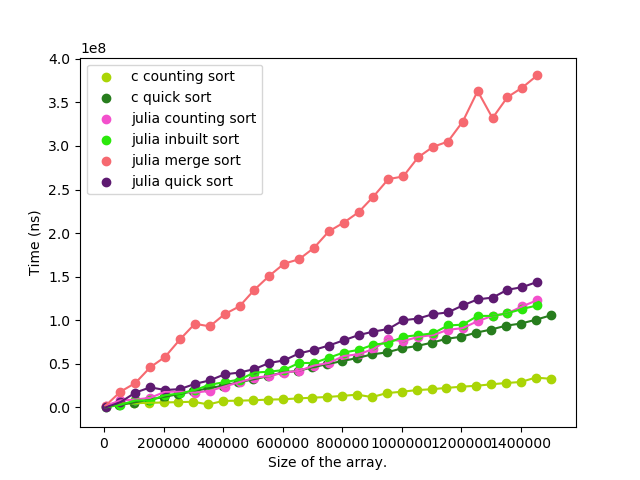
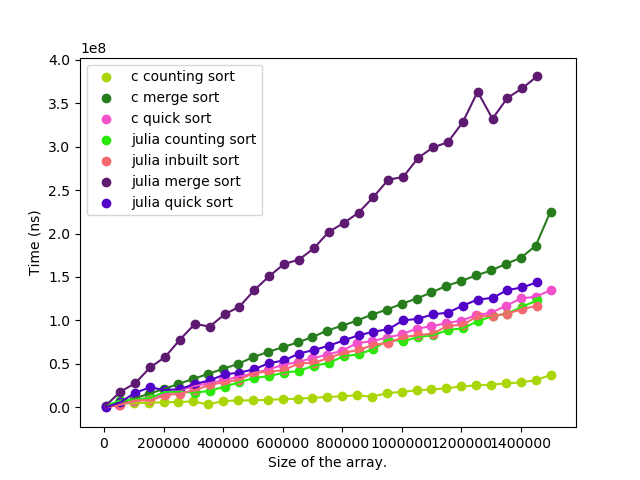
BENCH: enhance c benchmarks

diff --git a/sorting/driver.c b/sorting/driver.c
@@ -10,11 +10,17 @@ double FLA_Clock();
 /* Generate a random matrix with values [0,1) using a uniform sampler. */
 void RandomMatrix(int, int, double *, int);
 
+/* Swap double precision points */
+void swap(double *, double *);
+
 /* Quick Sort */
 void quicksort(double *, int, int);
 
 /* Counting Sort */
 void countingsort(int *, int *, int);
+
+/* Merge Sort */
+void mergesort(double *, int, int);
 
 
 int main(int argc, char *argv[])
@@ -85,6 +91,30 @@ int main(int argc, char *argv[])
 
                 /* Invoke Quick Sort */
                 quicksort( C, 0, size-1 );
+
+                dtime = FLA_Clock() - dtime;
+
+                if( i == 0 ) dtime_best = dtime;
+                else dtime_best = ( dtime < dtime_best ? dtime : dtime_best );
+            }
+
+            dtime_best = dtime_best * 1.0e09;
+            printf("%5d, %8.4le\n", size, dtime_best);
+
+            free( C );
+        }
+    }
+    else if( strcmp( argv[1] , "merge" ) == 0 ) {
+        for( size=last ; size>=first ; size-=inc ) {
+            C = ( double * ) malloc( size * sizeof( double ) );
+
+            for( i=0 ; i<nrep ; i++ ) {
+                RandomMatrix(size, 1, C, size);
+
+                dtime = FLA_Clock();
+
+                /* Invoke Merge Sort */
+                mergesort( C, 0, size-1 );
 
                 dtime = FLA_Clock() - dtime;
 

diff --git a/sorting/csrc/merge.c b/sorting/csrc/merge.c
@@ -1,0 +1,54 @@
+#include <stdlib.h>
+
+void swap(double *, double *);
+
+void merge(double *arr, int left, int mid, int right)
+{
+    int left_size  = mid-left+1;
+    int right_size = right-mid ;
+
+    double *arr_left  = ( double * ) malloc( left_size  * sizeof( double ) ),
+           *arr_right = ( double * ) malloc( right_size * sizeof( double ) );
+
+    for( int i=left  ; i<=mid   ; i++ )  arr_left[ i-left  ] = arr[ i ];
+    for( int i=mid+1 ; i<=right ; i++ ) arr_right[ i-mid-1 ] = arr[ i ];
+
+    int i=left, j=left, k=mid+1;
+
+    while( j<=mid && k<=right ) {
+        if( arr_left[ j-left ] < arr_right[ k-mid-1 ] ) {
+            arr[ i ] =  arr_left[ j-left ];
+            i++;
+            j++;
+        }
+        else {
+            arr[ i ] = arr_right[ k-mid-1 ];
+            i++;
+            k++;
+        }
+    }
+
+    while( j<=mid  ) {
+        arr[ i ] = arr_left[ j-left ];
+        i++;
+        j++;
+    }
+    while( k<=right ) {
+        arr[ i ] = arr_right[ k-mid-1 ];
+        i++;
+        k++;
+    }
+
+    free(arr_left);
+    free(arr_right);
+}
+
+void mergesort(double *arr, int left, int right)
+{
+    if( left<right ) {
+        int mid = ( left+right ) / 2;
+        mergesort( arr, left, mid );
+        mergesort( arr, mid+1, right );
+        merge( arr, left, mid, right );
+    }
+}

diff --git a/sorting/csrc/counting.c b/sorting/csrc/counting.c
@@ -2,15 +2,15 @@
 
 int maxelement(int *arr, int n)
 {
-    int max_index = 0, i;
-    for( i=0 ; i<n ; i++ ) if( arr[i] > arr[max_index] ) max_index = i;
-    return max_index;
+    int maxidx = 0, i;
+    for( i=0 ; i<n ; i++ ) if( arr[i] > arr[maxidx] ) maxidx = i;
+    return maxidx;
 }
 
 void countingsort(int *arr, int *aux, int n)
 {
-    int max_index     = maxelement(arr, n), i;
-    int freq_arr_size = arr[max_index] + 1;
+    int maxidx        = maxelement(arr, n), i;
+    int freq_arr_size = arr[maxidx] + 1;
 
     int *freq = ( int * ) calloc( freq_arr_size, sizeof( int ) );
 
@@ -18,7 +18,7 @@ void countingsort(int *arr, int *aux, int n)
         freq[ arr[ i ] ]++;
     }
 
-    for( i=1 ; i<arr[ max_index ] + 1 ; i++ ) freq[ i ] += freq[ i-1 ];
+    for( i=1 ; i<arr[ maxidx ] + 1 ; i++ ) freq[ i ] += freq[ i-1 ];
 
     for( i=0 ; i<n ; i++ ) {
         aux[ freq[ arr[ i ] ] - 1 ] = arr[ i ];

diff --git a/sorting/csrc/quick.c b/sorting/csrc/quick.c
@@ -1,13 +1,8 @@
-void swap(int* a, int* b)
-{
-    int temp = *a;
-    *a = *b;
-    *b = temp;
-}
+void swap(double *, double *);
 
-int partition(int *arr, int start, int end)
+int partition(double *arr, int start, int end)
 {
-    int pivot = arr[end];
+    double pivot = arr[end];
     int i = start-1, j = start, k = end;
 
     while( j != k ) {
@@ -22,7 +17,7 @@ int partition(int *arr, int start, int end)
     return i+1;
 }
 
-void quicksort(int *arr, int start, int end)
+void quicksort(double *arr, int start, int end)
 {
     if(start < end) {
         int i = partition( arr, start, end );

diff --git a/sorting/cutil/swap.c b/sorting/cutil/swap.c
@@ -1,0 +1,6 @@
+void swap(double* a, double* b)
+{
+    double temp = *a;
+    *a = *b;
+    *b = temp;
+}
